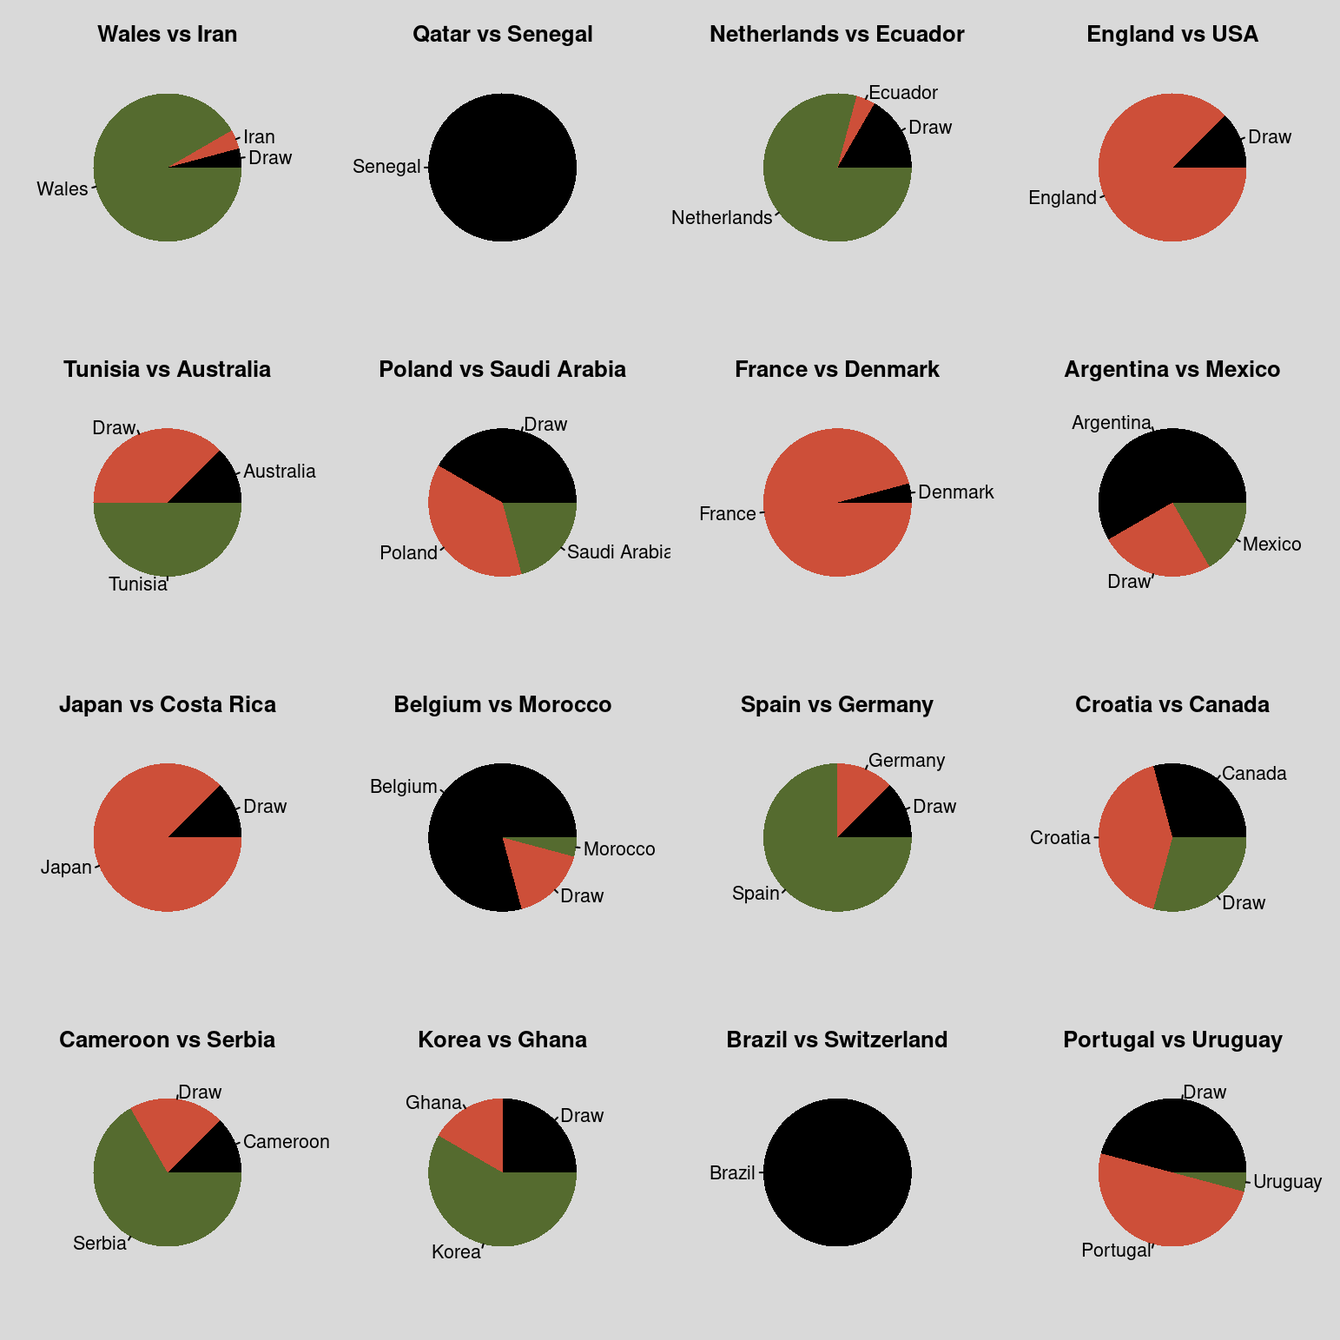
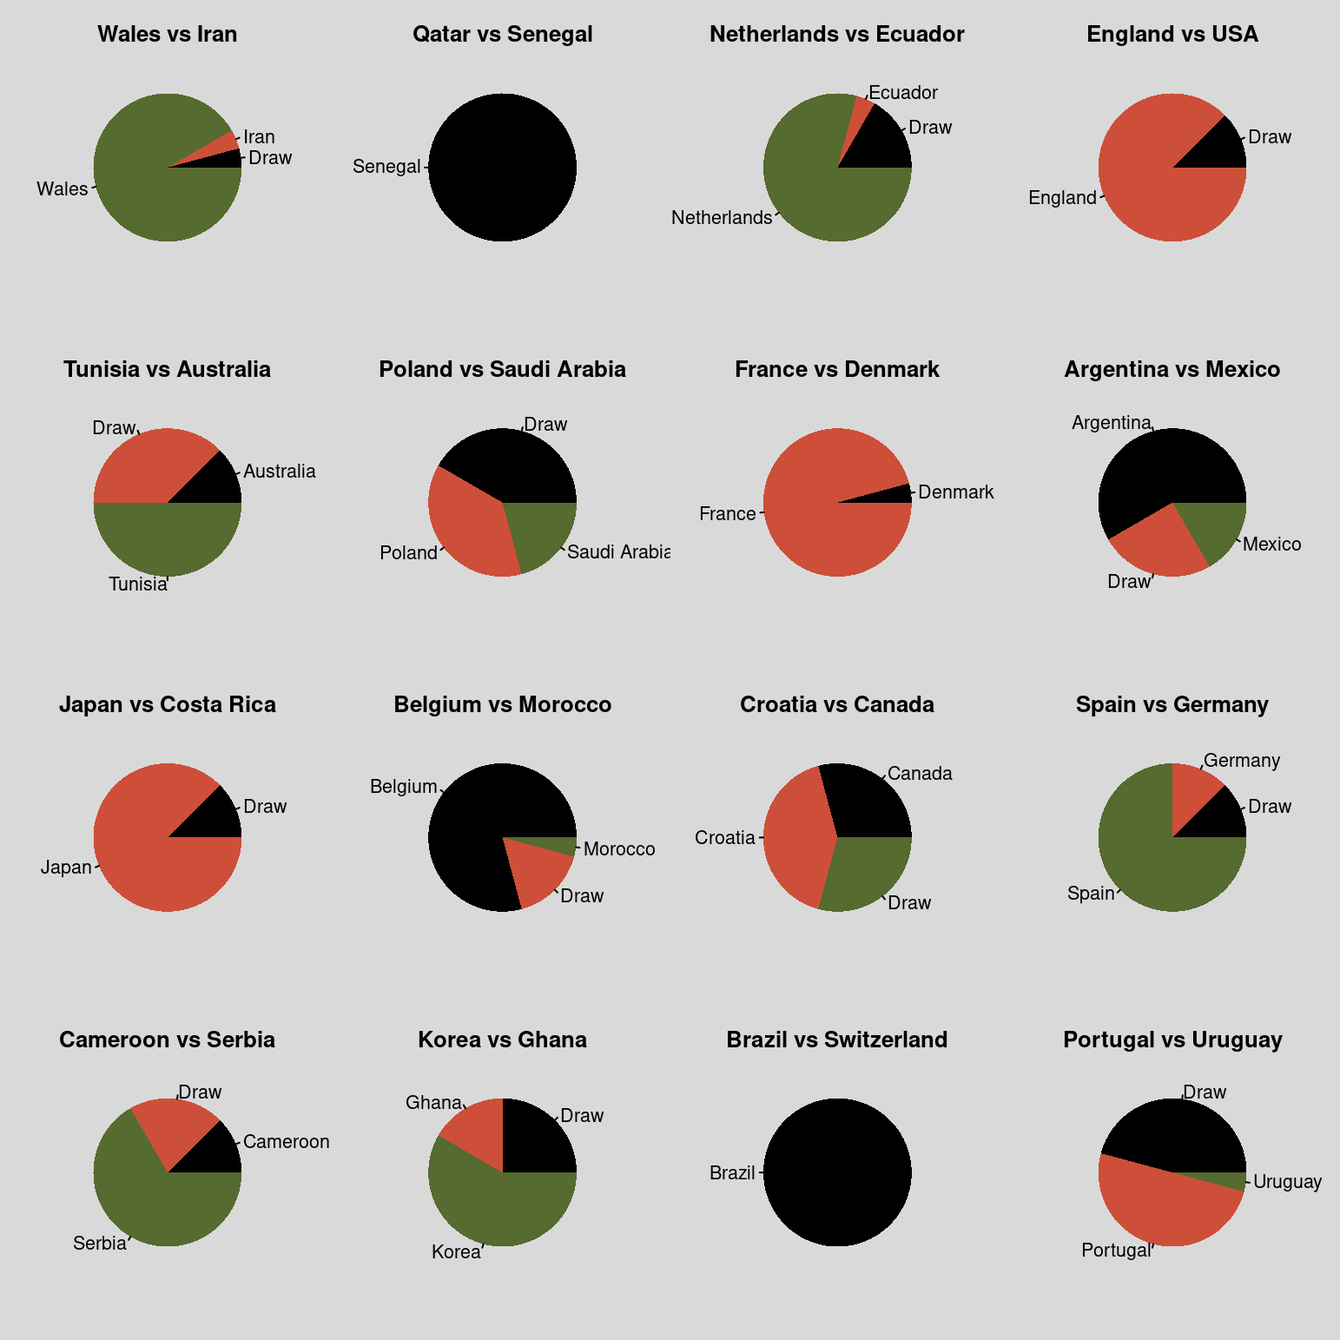
automatic README update

diff --git a/README.md b/README.md
@@ -13,7 +13,7 @@ Este es el repositorio de la quiniela Qatar 2022. Aqui se publicarán las picks 
 
 
 
-Última actualización: Sun 27 Nov 2022 13:43:33 EST.
+Última actualización: dom 27 nov 2022 13:46:15 EST.
 
 
 # **Puntuaciones**
@@ -24,29 +24,29 @@ Este es el repositorio de la quiniela Qatar 2022. Aqui se publicarán las picks 
 
 | numero_participante | Nombre                        | GS1 | GS2 | Total |
 | ------------------- | ----------------------------- | --- | --- | ----- |
-| 003                 | Habib                         | 11  | 4   | 15    |
+| 003                 | Habib                         | 11  | 5   | 16    |
+| 001                 | Jonathan                      | 10  | 5   | 15    |
+| 002                 | Poncho                        | 9   | 6   | 15    |
 | 020                 | Luis Angel Llamas Alonso      | 10  | 5   | 15    |
-| 001                 | Jonathan                      | 10  | 4   | 14    |
-| 002                 | Poncho                        | 9   | 5   | 14    |
 | 007                 | Claudio                       | 9   | 5   | 14    |
+| 012                 | Ibrahim T                     | 10  | 4   | 14    |
+| 014                 | Valentin                      | 9   | 5   | 14    |
 | 006                 | Juan Carlos Avendaño Aguilar | 9   | 4   | 13    |
-| 012                 | Ibrahim T                     | 10  | 3   | 13    |
-| 014                 | Valentin                      | 9   | 4   | 13    |
+| 009                 | Luis Temo Marquez             | 9   | 4   | 13    |
+| 013                 | Rubén Aguilar Grande         | 9   | 4   | 13    |
+| 019                 | Diego Angeles                 | 8   | 5   | 13    |
 | 024                 | Ahmed Felfel                  | 8   | 5   | 13    |
 | 004                 | Jalil Rasgado Toledo          | 9   | 3   | 12    |
-| 009                 | Luis Temo Marquez             | 9   | 3   | 12    |
-| 013                 | Rubén Aguilar Grande         | 9   | 3   | 12    |
 | 015                 | Daniel Jimenez                | 8   | 4   | 12    |
+| 016                 | Ernie                         | 8   | 4   | 12    |
 | 017                 | Bobacao                       | 10  | 2   | 12    |
-| 019                 | Diego Angeles                 | 8   | 4   | 12    |
 | 010                 | Fosi                          | 8   | 3   | 11    |
-| 016                 | Ernie                         | 8   | 3   | 11    |
 | 018                 | Eduardo Rafael Palacios Rejón | 8   | 3   | 11    |
 | 023                 | adamziri                      | 8   | 3   | 11    |
+| 011                 | Jacob                         | 6   | 4   | 10    |
 | 021                 | German Jair Sanchez Soto      | 7   | 3   | 10    |
 | 005                 | Israel torres                 | 7   | 2   | 9     |
 | 008                 | Héctor Zepeda                | 7   | 2   | 9     |
-| 011                 | Jacob                         | 6   | 3   | 9     |
 | 022                 | Colin                         | 6   | 2   | 8     |
  
 
@@ -69,32 +69,32 @@ Este es el repositorio de la quiniela Qatar 2022. Aqui se publicarán las picks 
  ## <u>**Picks de la Jornada 2**</u>
  
  
-| numero_participante | Nombre                        | Wales vs Iran | Qatar vs Senegal | Netherlands vs Ecuador | England vs USA | Tunisia vs Australia | Poland vs Saudi Arabia | France vs Denmark | Argentina vs Mexico | Japan vs Costa Rica | Belgium vs Morocco | Spain vs Germany | Croatia vs Canada | Cameroon vs Serbia | Korea vs Ghana | Brazil vs Switzerland | Portugal vs Uruguay |
-| ------------------- | ----------------------------- | ------------- | ---------------- | ---------------------- | -------------- | -------------------- | ---------------------- | ----------------- | ------------------- | ------------------- | ------------------ | ---------------- | ----------------- | ------------------ | -------------- | --------------------- | ------------------- |
-| 001                 | Jonathan                      | Wales         | Senegal          | Netherlands            | England        | Tunisia              | Poland                 | France            | Argentina           | Japan               | Belgium            | Draw             | Croatia           | Serbia             | Korea          | Brazil                | Draw                |
-| 002                 | Poncho                        | Wales         | Senegal          | Netherlands            | Draw           | Tunisia              | Poland                 | France            | Argentina           | Japan               | Draw               | Spain            | Croatia           | Draw               | Korea          | Brazil                | Portugal            |
-| 003                 | Habib                         | Wales         | Senegal          | Netherlands            | Draw           | Draw                 | Poland                 | France            | Draw                | Japan               | Belgium            | Spain            | Croatia           | Serbia             | Korea          | Brazil                | Draw                |
-| 004                 | Jalil Rasgado Toledo          | Wales         | Senegal          | Netherlands            | England        | Draw                 | Draw                   | France            | Argentina           | Japan               | Belgium            | Spain            | Draw              | Cameroon           | Korea          | Brazil                | Portugal            |
-| 005                 | Isra                          | Wales         | Senegal          | Netherlands            | England        | Tunisia              | Draw                   | France            | Draw                | Japan               | Draw               | Spain            | Canada            | Draw               | Ghana          | Brazil                | Draw                |
-| 006                 | Juan Carlos Avendaño Aguilar | Wales         | Senegal          | Netherlands            | England        | Tunisia              | Poland                 | France            | Argentina           | Draw                | Belgium            | Germany          | Draw              | Cameroon           | Korea          | Brazil                | Draw                |
-| 007                 | Claudio                       | Wales         | Senegal          | Netherlands            | England        | Australia            | Poland                 | France            | Argentina           | Japan               | Belgium            | Spain            | Canada            | Serbia             | Draw           | Brazil                | Draw                |
-| 008                 | Héctor Eduardo Zepeda Reyes  | Wales         | Senegal          | Netherlands            | England        | Draw                 | Draw                   | France            | Mexico              | Japan               | Belgium            | Spain            | Draw              | Serbia             | Ghana          | Brazil                | Draw                |
-| 009                 | Luis Temo Marquez             | Wales         | Senegal          | Netherlands            | England        | Tunisia              | Saudi Arabia           | France            | Argentina           | Japan               | Belgium            | Spain            | Croatia           | Serbia             | Korea          | Brazil                | Draw                |
-| 010                 | Fosi                          | Wales         | Senegal          | Draw                   | England        | Draw                 | Draw                   | France            | Draw                | Draw                | Belgium            | Spain            | Canada            | Draw               | Draw           | Brazil                | Draw                |
-| 011                 | Jacob                         | Wales         | Senegal          | Netherlands            | England        | Draw                 | Saudi Arabia           | France            | Mexico              | Japan               | Morocco            | Spain            | Croatia           | Serbia             | Ghana          | Brazil                | Uruguay             |
-| 012                 | Ibrahim T                     | Draw          | Senegal          | Netherlands            | England        | Australia            | Draw                   | France            | Draw                | Japan               | Belgium            | Spain            | Croatia           | Serbia             | Korea          | Brazil                | Portugal            |
-| 013                 | Ruben Aguilar                 | Wales         | Senegal          | Netherlands            | England        | Tunisia              | Draw                   | France            | Argentina           | Japan               | Belgium            | Draw             | Croatia           | Serbia             | Korea          | Brazil                | Draw                |
-| 014                 | Valentin                      | Wales         | Senegal          | Netherlands            | England        | Draw                 | Poland                 | France            | Argentina           | Japan               | Belgium            | Spain            | Croatia           | Draw               | Draw           | Brazil                | Portugal            |
-| 015                 | Daniel Jimenez                | Wales         | Senegal          | Netherlands            | England        | Tunisia              | Poland                 | France            | Argentina           | Japan               | Belgium            | Spain            | Canada            | Serbia             | Korea          | Brazil                | Portugal            |
-| 016                 | Ernie                         | Wales         | Senegal          | Netherlands            | England        | Tunisia              | Draw                   | France            | Argentina           | Draw                | Belgium            | Draw             | Croatia           | Draw               | Draw           | Brazil                | Draw                |
-| 017                 | Bobacao                       | Wales         | Senegal          | Netherlands            | England        | Tunisia              | Draw                   | France            | Draw                | Japan               | Belgium            | Spain            | Draw              | Serbia             | Draw           | Brazil                | Draw                |
-| 018                 | Eduardo Rafael Palacios Rejón | Wales         | Senegal          | Ecuador                | England        | Draw                 | Saudi Arabia           | France            | Argentina           | Japan               | Belgium            | Spain            | Draw              | Cameroon           | Korea          | Brazil                | Portugal            |
-| 019                 | Diego  Angeles                | Wales         | Senegal          | Draw                   | England        | Tunisia              | Poland                 | France            | Draw                | Japan               | Belgium            | Spain            | Croatia           | Serbia             | Ghana          | Brazil                | Portugal            |
-| 020                 | Luis Llamas                   | Wales         | Senegal          | Draw                   | England        | Draw                 | Poland                 | France            | Argentina           | Japan               | Belgium            | Germany          | Canada            | Serbia             | Korea          | Brazil                | Portugal            |
-| 021                 | German Jair                   | Wales         | Senegal          | Netherlands            | England        | Australia            | Draw                   | France            | Mexico              | Japan               | Belgium            | Spain            | Draw              | Serbia             | Korea          | Brazil                | Portugal            |
-| 022                 | Colin                         | Wales         | Senegal          | Netherlands            | Draw           | Tunisia              | Saudi Arabia           | Denmark           | Mexico              | Japan               | Draw               | Germany          | Canada            | Serbia             | Korea          | Brazil                | Portugal            |
-| 023                 | Adam                          | Wales         | Senegal          | Netherlands            | England        | Tunisia              | Draw                   | France            | Argentina           | Japan               | Draw               | Spain            | Canada            | Serbia             | Draw           | Brazil                | Portugal            |
-| 024                 | Ahmed Felfel                  | Iran          | Senegal          | Draw                   | England        | Draw                 | Saudi Arabia           | France            | Argentina           | Japan               | Belgium            | Spain            | Draw              | Serbia             | Korea          | Brazil                | Portugal            |
+| numero_participante | Nombre                        | Wales vs Iran | Qatar vs Senegal | Netherlands vs Ecuador | England vs USA | Tunisia vs Australia | Poland vs Saudi Arabia | France vs Denmark | Argentina vs Mexico | Japan vs Costa Rica | Belgium vs Morocco | Croatia vs Canada | Spain vs Germany | Cameroon vs Serbia | Korea vs Ghana | Brazil vs Switzerland | Portugal vs Uruguay |
+| ------------------- | ----------------------------- | ------------- | ---------------- | ---------------------- | -------------- | -------------------- | ---------------------- | ----------------- | ------------------- | ------------------- | ------------------ | ----------------- | ---------------- | ------------------ | -------------- | --------------------- | ------------------- |
+| 001                 | Jonathan                      | Wales         | Senegal          | Netherlands            | England        | Tunisia              | Poland                 | France            | Argentina           | Japan               | Belgium            | Croatia           | Draw             | Serbia             | Korea          | Brazil                | Draw                |
+| 002                 | Poncho                        | Wales         | Senegal          | Netherlands            | Draw           | Tunisia              | Poland                 | France            | Argentina           | Japan               | Draw               | Croatia           | Spain            | Draw               | Korea          | Brazil                | Portugal            |
+| 003                 | Habib                         | Wales         | Senegal          | Netherlands            | Draw           | Draw                 | Poland                 | France            | Draw                | Japan               | Belgium            | Croatia           | Spain            | Serbia             | Korea          | Brazil                | Draw                |
+| 004                 | Jalil Rasgado Toledo          | Wales         | Senegal          | Netherlands            | England        | Draw                 | Draw                   | France            | Argentina           | Japan               | Belgium            | Draw              | Spain            | Cameroon           | Korea          | Brazil                | Portugal            |
+| 005                 | Isra                          | Wales         | Senegal          | Netherlands            | England        | Tunisia              | Draw                   | France            | Draw                | Japan               | Draw               | Canada            | Spain            | Draw               | Ghana          | Brazil                | Draw                |
+| 006                 | Juan Carlos Avendaño Aguilar | Wales         | Senegal          | Netherlands            | England        | Tunisia              | Poland                 | France            | Argentina           | Draw                | Belgium            | Draw              | Germany          | Cameroon           | Korea          | Brazil                | Draw                |
+| 007                 | Claudio                       | Wales         | Senegal          | Netherlands            | England        | Australia            | Poland                 | France            | Argentina           | Japan               | Belgium            | Canada            | Spain            | Serbia             | Draw           | Brazil                | Draw                |
+| 008                 | Héctor Eduardo Zepeda Reyes  | Wales         | Senegal          | Netherlands            | England        | Draw                 | Draw                   | France            | Mexico              | Japan               | Belgium            | Draw              | Spain            | Serbia             | Ghana          | Brazil                | Draw                |
+| 009                 | Luis Temo Marquez             | Wales         | Senegal          | Netherlands            | England        | Tunisia              | Saudi Arabia           | France            | Argentina           | Japan               | Belgium            | Croatia           | Spain            | Serbia             | Korea          | Brazil                | Draw                |
+| 010                 | Fosi                          | Wales         | Senegal          | Draw                   | England        | Draw                 | Draw                   | France            | Draw                | Draw                | Belgium            | Canada            | Spain            | Draw               | Draw           | Brazil                | Draw                |
+| 011                 | Jacob                         | Wales         | Senegal          | Netherlands            | England        | Draw                 | Saudi Arabia           | France            | Mexico              | Japan               | Morocco            | Croatia           | Spain            | Serbia             | Ghana          | Brazil                | Uruguay             |
+| 012                 | Ibrahim T                     | Draw          | Senegal          | Netherlands            | England        | Australia            | Draw                   | France            | Draw                | Japan               | Belgium            | Croatia           | Spain            | Serbia             | Korea          | Brazil                | Portugal            |
+| 013                 | Ruben Aguilar                 | Wales         | Senegal          | Netherlands            | England        | Tunisia              | Draw                   | France            | Argentina           | Japan               | Belgium            | Croatia           | Draw             | Serbia             | Korea          | Brazil                | Draw                |
+| 014                 | Valentin                      | Wales         | Senegal          | Netherlands            | England        | Draw                 | Poland                 | France            | Argentina           | Japan               | Belgium            | Croatia           | Spain            | Draw               | Draw           | Brazil                | Portugal            |
+| 015                 | Daniel Jimenez                | Wales         | Senegal          | Netherlands            | England        | Tunisia              | Poland                 | France            | Argentina           | Japan               | Belgium            | Canada            | Spain            | Serbia             | Korea          | Brazil                | Portugal            |
+| 016                 | Ernie                         | Wales         | Senegal          | Netherlands            | England        | Tunisia              | Draw                   | France            | Argentina           | Draw                | Belgium            | Croatia           | Draw             | Draw               | Draw           | Brazil                | Draw                |
+| 017                 | Bobacao                       | Wales         | Senegal          | Netherlands            | England        | Tunisia              | Draw                   | France            | Draw                | Japan               | Belgium            | Draw              | Spain            | Serbia             | Draw           | Brazil                | Draw                |
+| 018                 | Eduardo Rafael Palacios Rejón | Wales         | Senegal          | Ecuador                | England        | Draw                 | Saudi Arabia           | France            | Argentina           | Japan               | Belgium            | Draw              | Spain            | Cameroon           | Korea          | Brazil                | Portugal            |
+| 019                 | Diego  Angeles                | Wales         | Senegal          | Draw                   | England        | Tunisia              | Poland                 | France            | Draw                | Japan               | Belgium            | Croatia           | Spain            | Serbia             | Ghana          | Brazil                | Portugal            |
+| 020                 | Luis Llamas                   | Wales         | Senegal          | Draw                   | England        | Draw                 | Poland                 | France            | Argentina           | Japan               | Belgium            | Canada            | Germany          | Serbia             | Korea          | Brazil                | Portugal            |
+| 021                 | German Jair                   | Wales         | Senegal          | Netherlands            | England        | Australia            | Draw                   | France            | Mexico              | Japan               | Belgium            | Draw              | Spain            | Serbia             | Korea          | Brazil                | Portugal            |
+| 022                 | Colin                         | Wales         | Senegal          | Netherlands            | Draw           | Tunisia              | Saudi Arabia           | Denmark           | Mexico              | Japan               | Draw               | Canada            | Germany          | Serbia             | Korea          | Brazil                | Portugal            |
+| 023                 | Adam                          | Wales         | Senegal          | Netherlands            | England        | Tunisia              | Draw                   | France            | Argentina           | Japan               | Draw               | Canada            | Spain            | Serbia             | Draw           | Brazil                | Portugal            |
+| 024                 | Ahmed Felfel                  | Iran          | Senegal          | Draw                   | England        | Draw                 | Saudi Arabia           | France            | Argentina           | Japan               | Belgium            | Draw              | Spain            | Serbia             | Korea          | Brazil                | Portugal            |
 ### Gráficos
 
 ![](media/picks_GS2.png )
